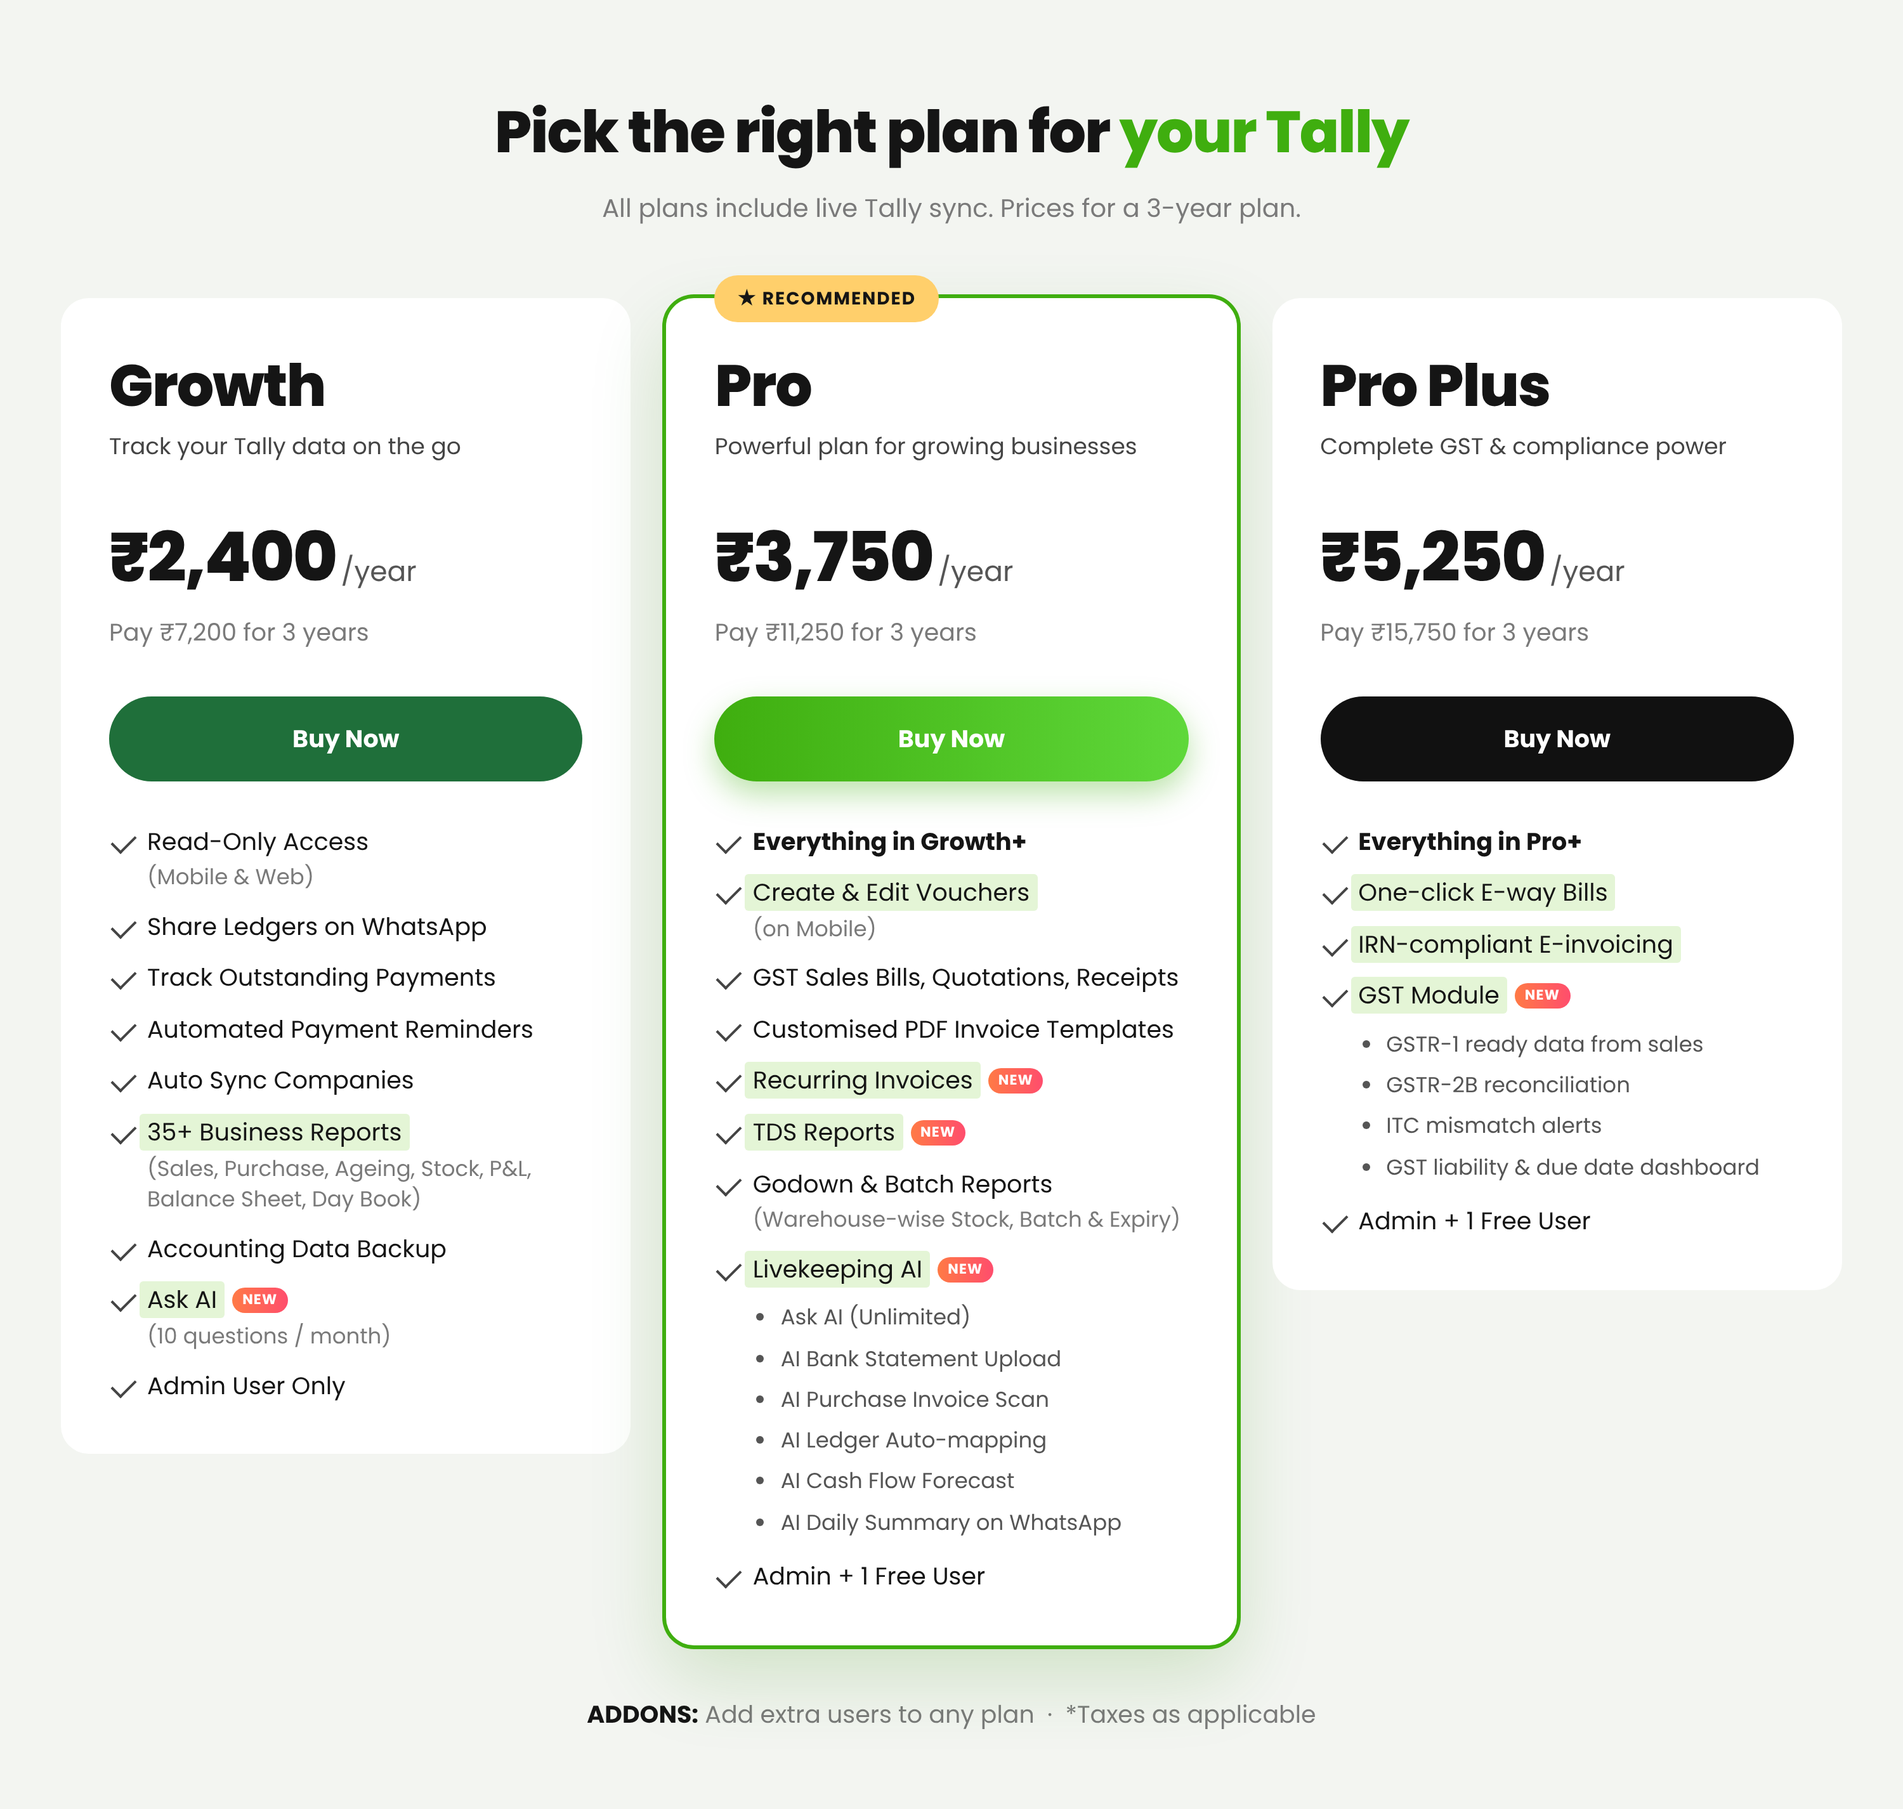
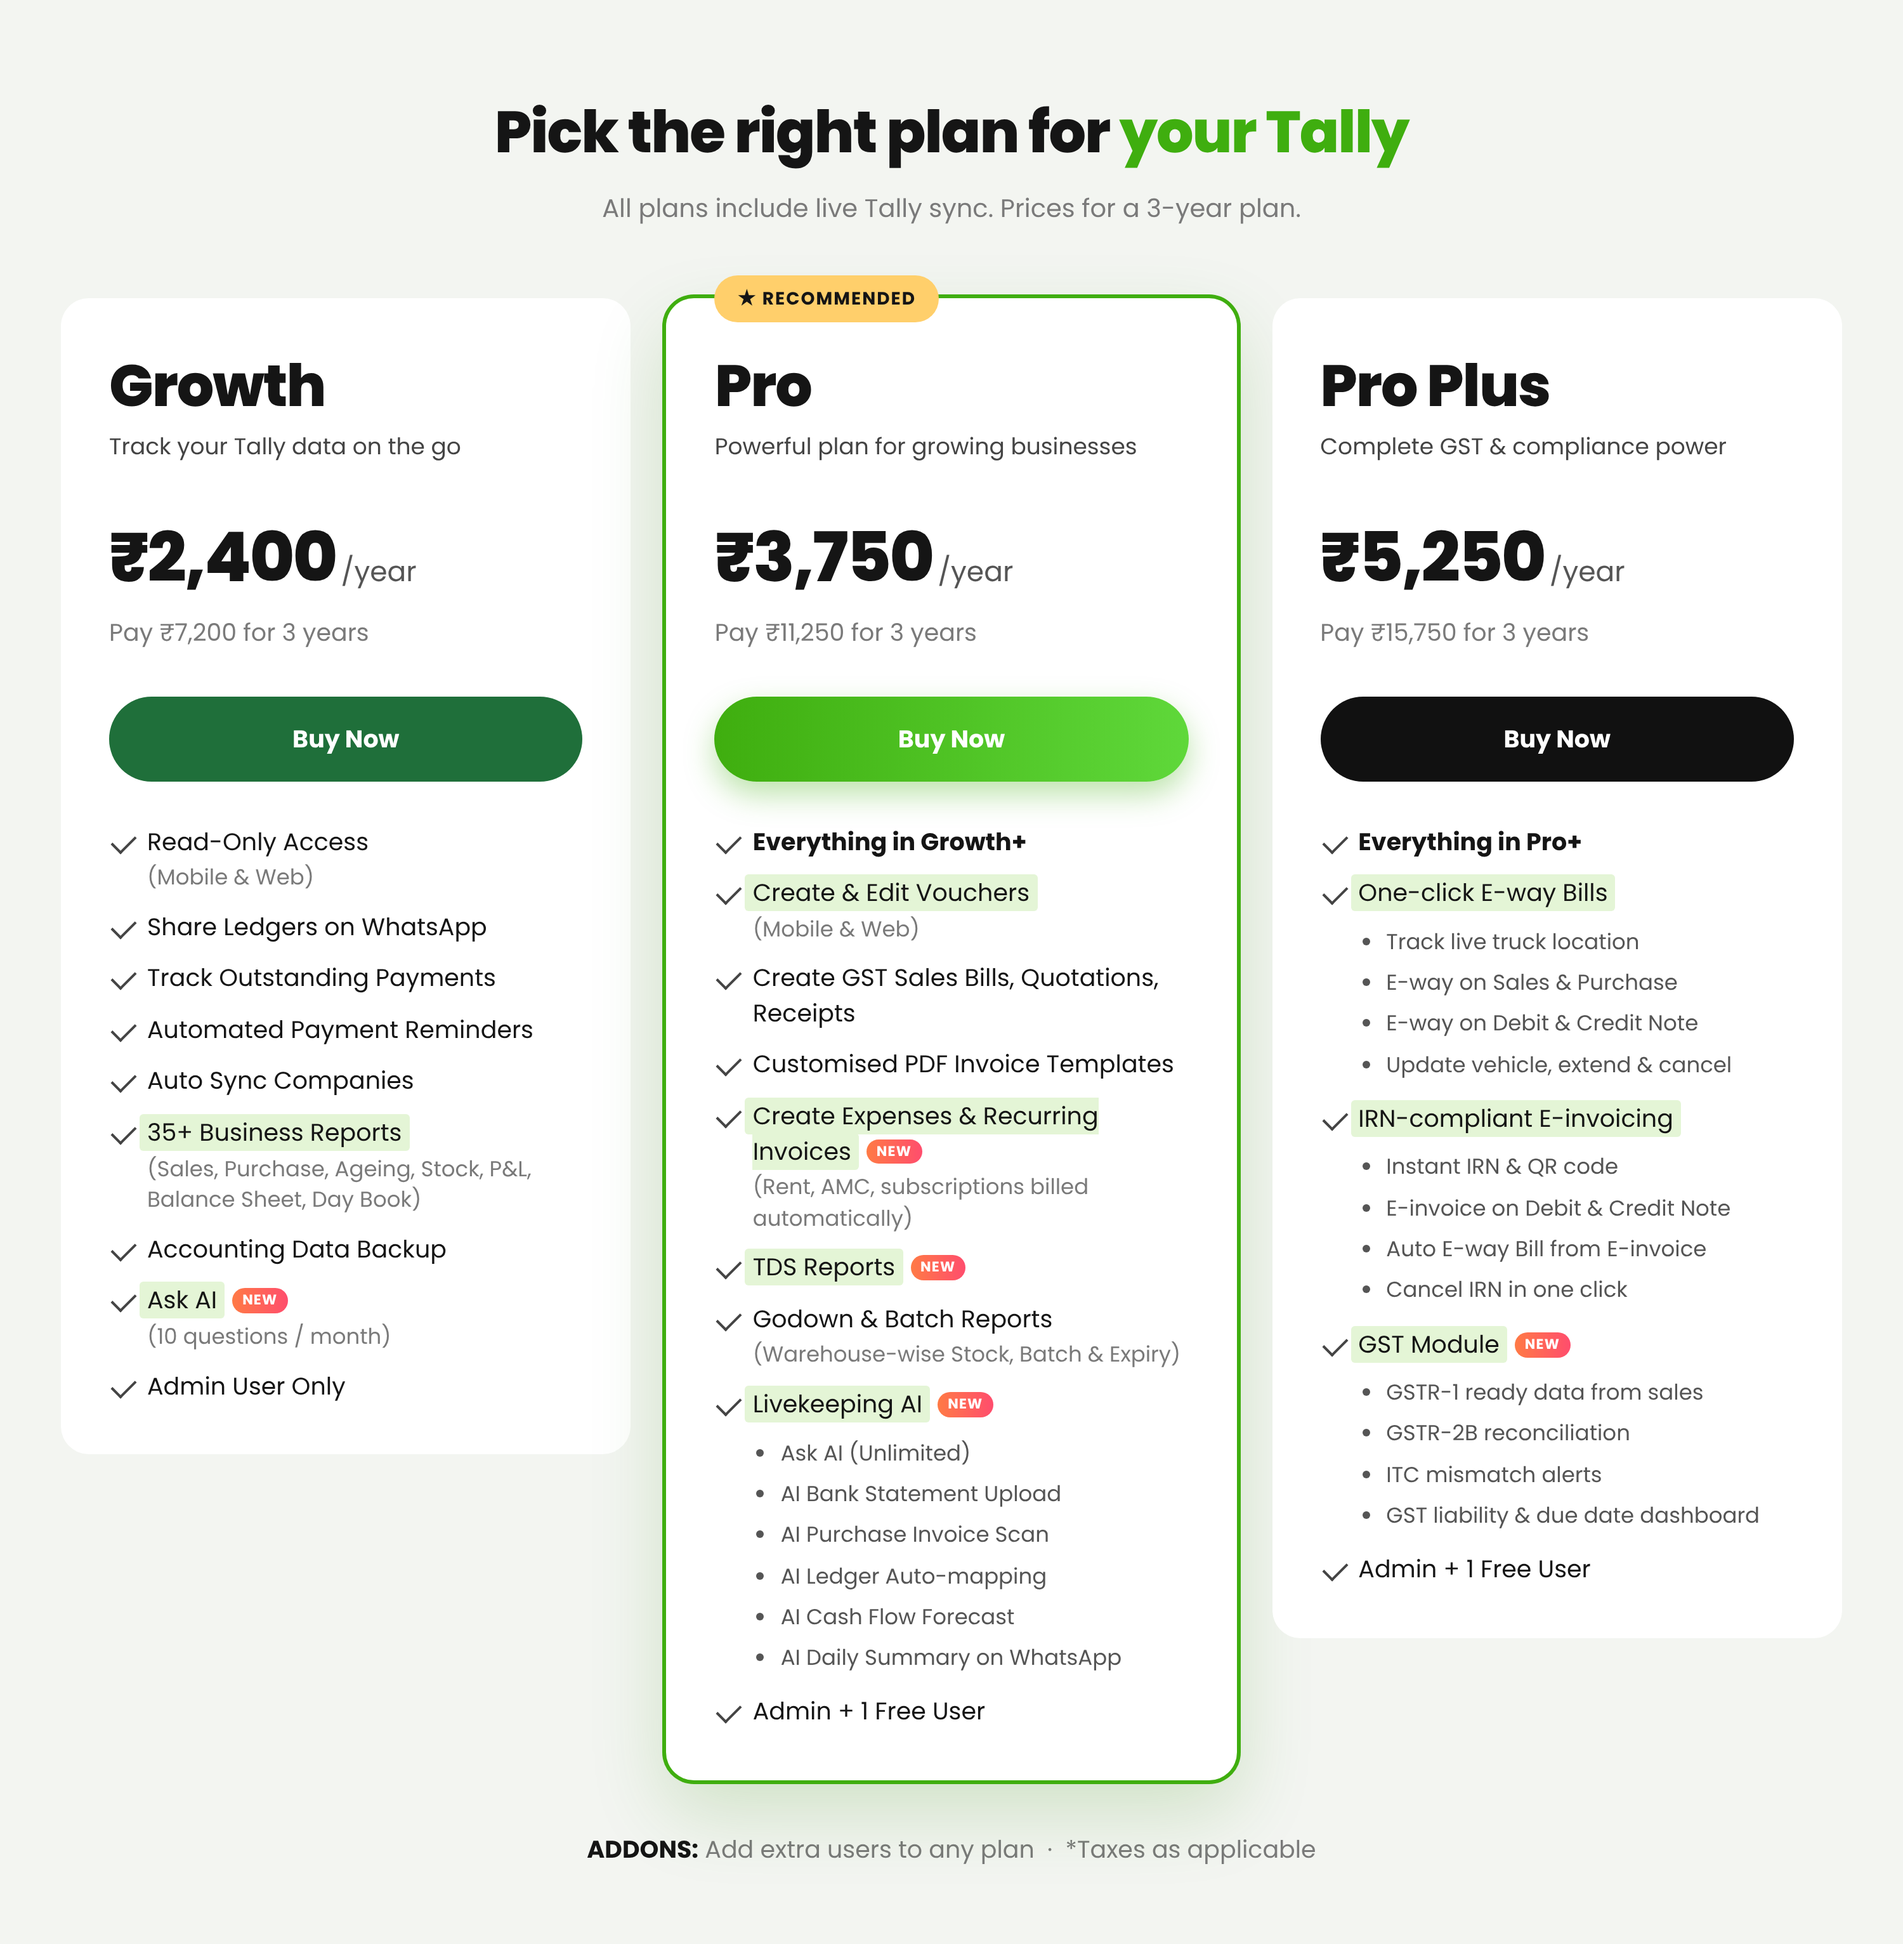
Pricing cards: create/expense points in Pro, detailed e-way and e-invoice in Pro Plus
Claude-Session: https://claude.ai/code/session_01TUFe6273V25gsCzznixesV

diff --git a/livekeeping-pricing/cards.html b/livekeeping-pricing/cards.html
@@ -99,10 +99,10 @@
       <div class="btn">Buy Now</div>
       <ul>
         <li><div><b>Everything in Growth+</b></div></li>
-        <li><div><span class="hl">Create &amp; Edit Vouchers</span><span class="note">(on Mobile)</span></div></li>
-        <li><div>GST Sales Bills, Quotations, Receipts</div></li>
+        <li><div><span class="hl">Create &amp; Edit Vouchers</span><span class="note">(Mobile &amp; Web)</span></div></li>
+        <li><div>Create GST Sales Bills, Quotations, Receipts</div></li>
         <li><div>Customised PDF Invoice Templates</div></li>
-        <li><div><span class="hl">Recurring Invoices</span><span class="new">NEW</span></div></li>
+        <li><div><span class="hl">Create Expenses &amp; Recurring Invoices</span><span class="new">NEW</span><span class="note">(Rent, AMC, subscriptions billed automatically)</span></div></li>
         <li><div><span class="hl">TDS Reports</span><span class="new">NEW</span></div></li>
         <li><div>Godown &amp; Batch Reports<span class="note">(Warehouse-wise Stock, Batch &amp; Expiry)</span></div></li>
         <li><div><span class="hl">Livekeeping AI</span><span class="new">NEW</span>
@@ -127,8 +127,20 @@
       <div class="btn">Buy Now</div>
       <ul>
         <li><div><b>Everything in Pro+</b></div></li>
-        <li><div><span class="hl">One-click E-way Bills</span></div></li>
-        <li><div><span class="hl">IRN-compliant E-invoicing</span></div></li>
+        <li><div><span class="hl">One-click E-way Bills</span>
+          <ul class="dots">
+            <li>Track live truck location</li>
+            <li>E-way on Sales &amp; Purchase</li>
+            <li>E-way on Debit &amp; Credit Note</li>
+            <li>Update vehicle, extend &amp; cancel</li>
+          </ul></div></li>
+        <li><div><span class="hl">IRN-compliant E-invoicing</span>
+          <ul class="dots">
+            <li>Instant IRN &amp; QR code</li>
+            <li>E-invoice on Debit &amp; Credit Note</li>
+            <li>Auto E-way Bill from E-invoice</li>
+            <li>Cancel IRN in one click</li>
+          </ul></div></li>
         <li><div><span class="hl">GST Module</span><span class="new">NEW</span>
           <ul class="dots">
             <li>GSTR-1 ready data from sales</li>
